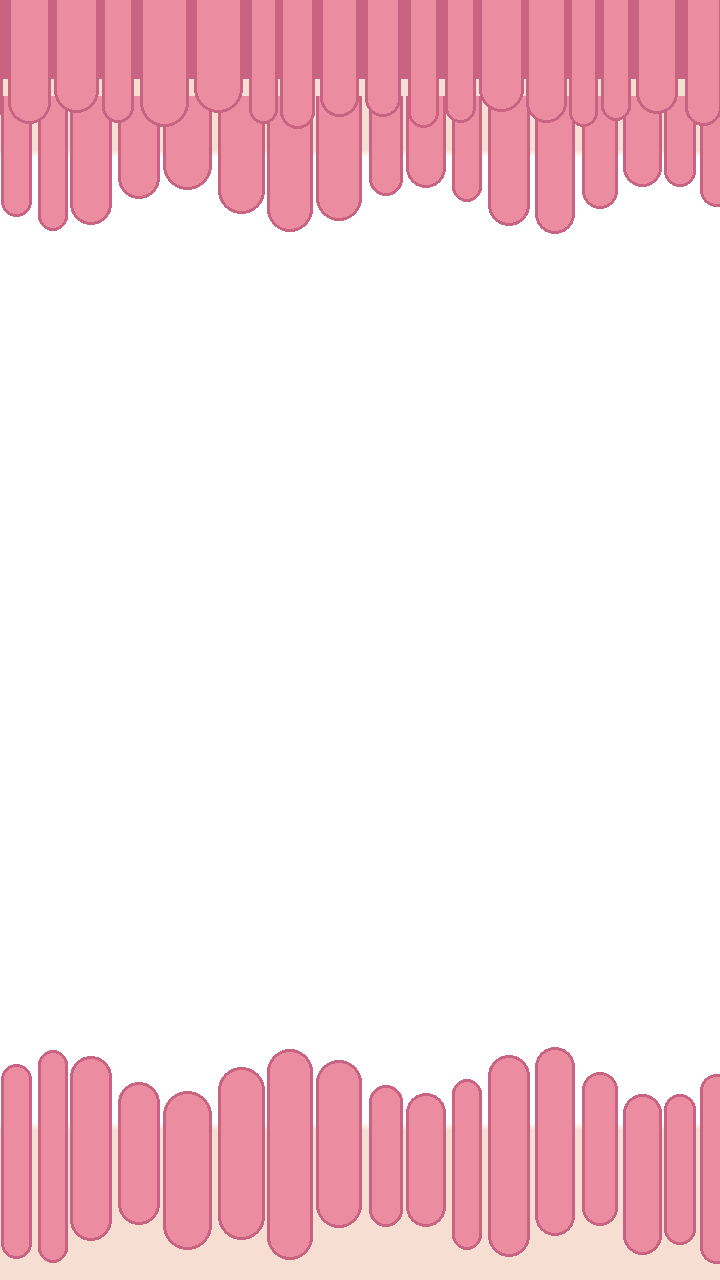
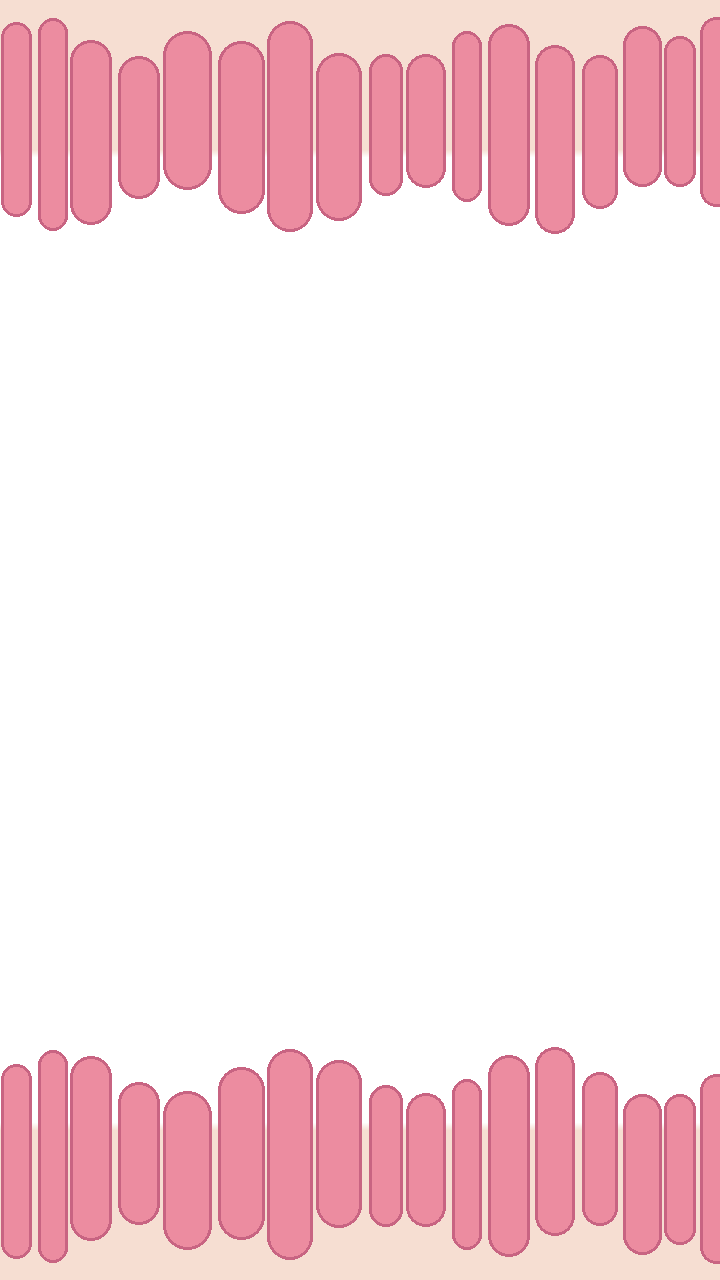
feat(art, step 1/5): ceiling strip in front of the pipes at pipe speed; kill line and gaps mirror the ground
The front villi row at the top was baked into villi.png, so it drew behind
the pipes at the overlay's 0.25 parallax. It is now assets/ceiling.png, a
tileSprite at depth 5 scrolled at pipe speed like ground.png; villi.png keeps
only the cream backdrops and the two back fringes. TUNING.ceilingHeight (128,
the ground's mirror): the poop dies at the strip's edge and gapBounds keeps
gapMargin below it, so nothing lives behind the strip. VERSION 0.5.16 so the
redrawn villi.png is refetched.

Verified: npm test 305/305; npm run smoke green (the driver re-parks its
gravity-free poop before the pad ring checks, where it had drifted above the
new ceiling line).

Changed region(s): [[0.0, 0.0, 1.0, 0.0938]]

diff --git a/src/scenes/Play.js b/src/scenes/Play.js
@@ -175,13 +175,19 @@ export class Play extends Phaser.Scene {
     this.pipes = this.physics.add.group({ allowGravity: false, immovable: true });
     this.items = this.physics.add.group({ allowGravity: false, immovable: true });
     this.beans = this.physics.add.group({ allowGravity: false, immovable: true });
+    // The ceiling and ground strips: in front of the pipes (depth 5) at full scroll speed, so the
+    // front villi rows pass faster than the back fringes in the overlay. The poop dies at their edges.
     this.ground = this.add
       .tileSprite(0, GAME_HEIGHT - T.groundHeight, W, T.groundHeight, 'ground')
       .setOrigin(0, 0)
       .setDepth(5);
-    {
-      const f = this.ground.frame;
-      this.ground.setTileScale(FIELD.minWidth / f.width, T.groundHeight / f.height);
+    this.ceiling = this.add.tileSprite(0, 0, W, T.ceilingHeight, 'ceiling').setOrigin(0, 0).setDepth(5);
+    for (const [strip, height] of [
+      [this.ground, T.groundHeight],
+      [this.ceiling, T.ceilingHeight],
+    ]) {
+      const f = strip.frame;
+      strip.setTileScale(FIELD.minWidth / f.width, height / f.height);
     }
 
     // Ready-screen geometry (title, poop spot, buttons). Taps resolve through
@@ -1127,6 +1133,7 @@ export class Play extends Phaser.Scene {
     this.pipesSpawned += 1;
     const gapCfg = {
       gameHeight: GAME_HEIGHT,
+      ceilingHeight: T.ceilingHeight,
       groundHeight: T.groundHeight,
       gapHeight: this.diff.gapHeight,
       gapMargin: T.gapMargin,
@@ -1783,6 +1790,7 @@ export class Play extends Phaser.Scene {
     if (scrolling) {
       for (const layer of this.bgLayers) layer.sprite.tilePositionX += this.scrollSpeed() * layer.parallax * dt;
       this.ground.tilePositionX += this.scrollSpeed() * dt;
+      this.ceiling.tilePositionX += this.scrollSpeed() * dt;
     }
 
     if (this.state === 'playing') {
@@ -1843,7 +1851,7 @@ export class Play extends Phaser.Scene {
         this.poop.setAngle(angleForVelocity(this.poop.body.velocity.y, T));
         this.refreshPoopLook(); // the falling face past fallLookVy, back to plain / stink on the next flap
       }
-      const top = T.poopRadius;
+      const top = T.ceilingHeight + T.poopRadius; // the strips' edges, like the floor
       const floor = GAME_HEIGHT - T.groundHeight - T.poopRadius;
       if (this.poop.y < top || this.poop.y > floor) {
         if (this.effects.powerActive() || this.graceLeftMs > 0 || this.testInvincible()) {

diff --git a/tests/logic.test.js b/tests/logic.test.js
@@ -3,7 +3,7 @@ import assert from 'node:assert/strict';
 import { createRng, gapBounds, pipeGapY, centredGapY, hasPassed, angleForVelocity, poopFrame } from '../src/logic.js';
 import { GAME_HEIGHT, TUNING as T } from '../src/config.js';
 
-const cfg = { gameHeight: GAME_HEIGHT, groundHeight: T.groundHeight, gapHeight: T.gapHeight, gapMargin: T.gapMargin };
+const cfg = { gameHeight: GAME_HEIGHT, ceilingHeight: T.ceilingHeight, groundHeight: T.groundHeight, gapHeight: T.gapHeight, gapMargin: T.gapMargin };
 
 test('pipeGapY always lands inside gapBounds (10 000 draws)', () => {
   const { minY, maxY } = gapBounds(cfg);
@@ -15,10 +15,13 @@ test('pipeGapY always lands inside gapBounds (10 000 draws)', () => {
   }
 });
 
-test('the gap never overlaps the ground or the ceiling with the shipped tuning', () => {
+test('the gap keeps gapMargin below the ceiling strip and above the ground strip with the shipped tuning', () => {
   const { minY, maxY } = gapBounds(cfg);
-  assert.ok(minY - T.gapHeight / 2 >= 0);
-  assert.ok(maxY + T.gapHeight / 2 <= GAME_HEIGHT - T.groundHeight);
+  assert.equal(minY - T.gapHeight / 2, T.ceilingHeight + T.gapMargin);
+  assert.equal(maxY + T.gapHeight / 2, GAME_HEIGHT - T.groundHeight - T.gapMargin);
+  assert.ok(maxY > minY);
+  const { minY: noCeiling } = gapBounds({ ...cfg, ceilingHeight: undefined });
+  assert.equal(noCeiling, T.gapMargin + T.gapHeight / 2, 'ceilingHeight defaults to 0');
 });
 
 test('same seed gives the same pipe sequence; different seed differs', () => {
@@ -50,7 +53,7 @@ test('angleForVelocity is nose-up when rising and clamps nose-down when falling 
 });
 
 test('centredGapY sits at mid-screen (the fart float height) and stays inside gapBounds', () => {
-  const cfg = { gameHeight: GAME_HEIGHT, groundHeight: T.groundHeight, gapHeight: T.gapHeight, gapMargin: T.gapMargin };
+  const cfg = { gameHeight: GAME_HEIGHT, ceilingHeight: T.ceilingHeight, groundHeight: T.groundHeight, gapHeight: T.gapHeight, gapMargin: T.gapMargin };
   assert.equal(centredGapY(cfg), GAME_HEIGHT / 2);
   const { minY, maxY } = gapBounds(cfg);
   assert.ok(centredGapY(cfg) >= minY && centredGapY(cfg) <= maxY);

diff --git a/tests/levels.test.js b/tests/levels.test.js
@@ -118,7 +118,7 @@ test('lerpColor blends per channel and clamps f', () => {
 
 test('the fixed gap still fits the poop with room, and the fart grace clears a pipe column at level-1 speed', () => {
   assert.ok(T.gapHeight >= T.poopRadius * 2 * 2.5, 'gap is at least 2.5 poop diameters');
-  const b = gapBounds({ gameHeight: GAME_HEIGHT, groundHeight: T.groundHeight, gapHeight: T.gapHeight, gapMargin: T.gapMargin });
+  const b = gapBounds({ gameHeight: GAME_HEIGHT, ceilingHeight: T.ceilingHeight, groundHeight: T.groundHeight, gapHeight: T.gapHeight, gapMargin: T.gapMargin });
   assert.ok(b.maxY > b.minY, 'a gap can be placed');
   assert.ok((T.beans.graceMs * T.pipeSpeed) / 1000 >= T.pipeWidth + T.poopRadius, 'grace clears a pipe column');
 });
@@ -230,6 +230,6 @@ test('levelGap is 10 % wider on level 1, 5 % on level 2, and the base gap from l
     assert.ok(s[i] >= 1, `gapScale[${i}] never narrows below the base gap`);
     if (i > 0) assert.ok(s[i] <= s[i - 1], 'gaps never widen as levels rise');
   }
-  const b = gapBounds({ gameHeight: GAME_HEIGHT, groundHeight: T.groundHeight, gapHeight: levelGap(1, T), gapMargin: T.gapMargin });
+  const b = gapBounds({ gameHeight: GAME_HEIGHT, ceilingHeight: T.ceilingHeight, groundHeight: T.groundHeight, gapHeight: levelGap(1, T), gapMargin: T.gapMargin });
   assert.ok(b.maxY > b.minY, 'the widest gap still has room to move');
 });

diff --git a/src/logic.js b/src/logic.js
@@ -4,7 +4,7 @@
 
 import { isLocale, DEFAULT_LOCALE } from './i18n.js';
 
-export const VERSION = '0.5.15'; // bumped when art under an existing name changes (Boot's ?v= cache-bust)
+export const VERSION = '0.5.16'; // bumped when art under an existing name changes (Boot's ?v= cache-bust)
 
 /** Player-facing stamp on the About overlay: the time of the last push (written by `npm run push`). */
 export const LAST_UPDATED = '6 Nov 2026, 18:26';
@@ -123,9 +123,9 @@ export function createRng(seed = 1) {
   };
 }
 
-/** Vertical bounds the centre of a pipe gap may occupy. */
-export function gapBounds({ gameHeight, groundHeight, gapHeight, gapMargin }) {
-  const minY = gapMargin + gapHeight / 2;
+/** Vertical bounds the centre of a pipe gap may occupy: gapMargin below the ceiling strip and above the ground strip. */
+export function gapBounds({ gameHeight, ceilingHeight = 0, groundHeight, gapHeight, gapMargin }) {
+  const minY = ceilingHeight + gapMargin + gapHeight / 2;
   const maxY = gameHeight - groundHeight - gapMargin - gapHeight / 2;
   if (maxY < minY) throw new Error('gapBounds: playfield too short for this gap');
   return { minY, maxY };

diff --git a/tests/tuning.test.js b/tests/tuning.test.js
@@ -3,6 +3,13 @@ import assert from 'node:assert/strict';
 import { TUNING as T, SHARE, FIELD, GAME_WIDTH, GAME_HEIGHT } from '../src/config.js';
 import { pipeSpacing, levelSpeed } from '../src/logic.js';
 
+test('the ceiling strip mirrors the ground strip, and the play area between them is centred on mid-screen', () => {
+  assert.equal(T.ceilingHeight, T.groundHeight);
+  assert.ok(T.ceilingHeight > 0 && T.ceilingHeight < GAME_HEIGHT / 4, `ceilingHeight ${T.ceilingHeight}`);
+  assert.equal((T.ceilingHeight + GAME_HEIGHT - T.groundHeight) / 2, GAME_HEIGHT / 2, 'the fart float centre is the play centre');
+  assert.ok(T.hudScoreY + 40 <= T.ceilingHeight + T.gapMargin, 'the score sits above where a gap can start');
+});
+
 test('item spawn rates sit in a fair band', () => {
   assert.ok(T.items.chancePerGap >= 0.1 && T.items.chancePerGap <= 0.5, `chancePerGap ${T.items.chancePerGap}`);
   assert.ok(T.items.hazardFromLevel >= 2, 'level 1 stays free of bad bacteria');

diff --git a/src/config.js b/src/config.js
@@ -26,7 +26,8 @@ export const TUNING = {
   pipeSpacingPx: 412, // px between pipe pairs from levels.spacingRefLevel on (1.27 s at level-3 speed); slower levels get more, see pipeSpacing()
   gapHeight: 340, // vertical opening between a pipe pair
   pipeWidth: 128,
-  groundHeight: 128,
+  groundHeight: 128, // px, the ground strip: the poop dies at its edge and gaps keep gapMargin above it
+  ceilingHeight: 128, // px, the ceiling strip (the ground's mirror): the poop dies at its edge and gaps keep gapMargin below it
   gapMargin: 80, // keep the gap this far from the ceiling and the ground
   poopXFrac: 0.25, // 0–1 share of the field width where the player sits (180 px of a 720 field; the same share on a wider desktop field; poopX())
   poopRadius: 48, // px circular hitbox = half the 96 logical-px sprite (the whole drawing, square corners excluded)

diff --git a/src/scenes/Boot.js b/src/scenes/Boot.js
@@ -29,6 +29,7 @@ export class Boot extends Phaser.Scene {
     this.load.image('poop-speech', 'assets/poop-speech.png' + V);
     this.load.image('pipe', 'assets/pipe.png' + V);
     this.load.image('villi', 'assets/villi.png' + V); // transparent overlay above the per-level colour
+    this.load.image('ceiling', 'assets/ceiling.png' + V); // the ceiling strip, the ground's mirror: in front of the pipes at pipe speed
     this.load.image('ground', 'assets/ground.png' + V);
     this.load.audio('fart', 'assets/sfx/fart.mp3' + V);
     this.load.audio('fart-accelerate', 'assets/sfx/fart_accelerate.mp3' + V);

diff --git a/tests/items.test.js b/tests/items.test.js
@@ -47,7 +47,7 @@ test('bandMidY puts a still pickup midway between this gap and the next, inside 
   assert.equal(bandMidY(300, 700), 500);
   assert.equal(bandMidY(700, 300), bandMidY(300, 700), 'symmetric');
   assert.equal(bandMidY(420, 420), 420);
-  const cfg = { gameHeight: 1280, groundHeight: T.groundHeight, gapHeight: 374, gapMargin: T.gapMargin };
+  const cfg = { gameHeight: 1280, ceilingHeight: T.ceilingHeight, groundHeight: T.groundHeight, gapHeight: 374, gapMargin: T.gapMargin };
   const rng = createRng(21);
   const lo = pipeGapY(() => 0, cfg);
   const hi = pipeGapY(() => 0.999999, cfg);

diff --git a/tests/fart.test.js b/tests/fart.test.js
@@ -50,7 +50,7 @@ test('fartFloat tilts nose up while rising and nose down while falling, within w
 });
 
 test('the float wave stays inside the play area with the poop radius to spare', () => {
-  const top = T.poopRadius;
+  const top = T.ceilingHeight + T.poopRadius;
   const floor = GAME_HEIGHT - T.groundHeight - T.poopRadius;
   assert.ok(CENTRE - b.waveAmplitudePx > top + 100 && CENTRE + b.waveAmplitudePx < floor - 100, 'wide margins');
   assert.ok(b.wavePeriodMs >= 600 && b.wavePeriodMs <= 3000, `wavePeriodMs ${b.wavePeriodMs}`);

diff --git a/tools/make_placeholders.py b/tools/make_placeholders.py
@@ -8,7 +8,7 @@ checks that the README table matches the PNG headers).
 
 Run:  python3 tools/make_placeholders.py
 Requires Pillow. Uses Noto Color Emoji for the poop if present, else draws a blob.
-Only pipe / villi / ground: the player, items and the app icons come from
+Only pipe / villi / ceiling / ground: the player, items and the app icons come from
 tools/process_art.py (Michael's drawings in assets/src/), never from here.
 """
 from pathlib import Path
@@ -114,11 +114,11 @@ def backdrop(d, w, y0, y1, toward_lumen):
 
 
 def ceiling_strip(d, w, strip_h=128, cream_h=16):
-    """The ground strip's vertical mirror, baked into the overlay's top edge: a dark band, a
+    """The ground strip's vertical mirror (drawn into ceiling.png by ceiling()): a dark band, a
     cream line along its lower edge ending at BAR_FRAC of the shortest tip (so every tip
     extends past it), and fingers growing up from the TIP_ZONE whose tips undulate shallowly
-    (same seed as the ground so the two rows read as one gut wall). Background only: pipes
-    and the poop draw over it, so the ceiling kill line and the gap margin stay as they are."""
+    (same seed as the ground so the two rows read as one gut wall). The game draws it in front
+    of the pipes at pipe speed, like the ground; the poop dies at its edge (ceilingHeight)."""
     tips = strip_h - TIP_ZONE  # the shortest front tip's reach from the top edge
     bar = round(BAR_FRAC * tips)
     d.rectangle((0, 0, w, bar - cream_h), fill=VILLI_DARK)
@@ -130,10 +130,10 @@ def ceiling_strip(d, w, strip_h=128, cream_h=16):
 def villi(path, w=720, h=1280):
     """Transparent overlay: a cream mucosa backdrop from each screen edge to BAR_FRAC of the
     shortest fringe tip, fading to transparent toward the lumen (BACKDROP_FADE; behind
-    everything: the strips and the fringes draw over it), the
-    villi fringes, and the ceiling strip (the ground's mirror) along the top edge. The level
-    colour shows through from the backdrop's edge to the lumen (the game draws a solid
-    rectangle under the overlay)."""
+    everything: the strips and the fringes draw over it) and the two villi fringes. The front
+    rows are separate strips (ceiling.png / ground.png) that the game draws over the pipes.
+    The level colour shows through from the backdrop's edge to the lumen (the game draws a
+    solid rectangle under the overlay)."""
     img = Image.new("RGBA", (w, h), (0, 0, 0, 0))
     d = ImageDraw.Draw(img)
     # Fringes ~175 px (~14 % each end; a third shorter than the first cut) so the open lumen stays clear.
@@ -149,12 +149,21 @@ def villi(path, w=720, h=1280):
     backdrop(d, w, 0, top_bar, +1)
     backdrop(d, w, bot_bar, h, -1)
     # villi fringes (drawn wider than the image so the horizontal tile edge matches); every finger
-    # is ≥ 131 px so its rounded far end sits behind the ceiling strip / the ground strip, and the
+    # is ≥ 131 px so its rounded far end sits behind the ceiling strip / the ground strip (drawn by
+    # the game in front of this overlay), and the
     # tips undulate ±24 px around the backdrop's edge (BACK_WAVE).
     villi_band(d, -40, w + 40, top_base, fringe, up=True, rng=random.Random(7), min_frac=0.75, wave=BACK_WAVE, tile_w=w)
     villi_band(d, -40, w + 40, bot_base, fringe, up=False, rng=random.Random(7), min_frac=0.75, wave=BACK_WAVE, tile_w=w)
-    # Front row at the top, in front of the fringe, as ground.png is in front of the bottom one.
-    ceiling_strip(d, w)
+    img.save(path)
+
+
+def ceiling(path, w=720, h=128):
+    """The ceiling strip, ground.png's mirror: its own file because the game draws it as a
+    tileSprite in front of the pipes at pipe speed (like the ground), not as part of the slow
+    overlay. See ceiling_strip for the drawing."""
+    img = Image.new("RGBA", (w, h), (0, 0, 0, 0))
+    d = ImageDraw.Draw(img)
+    ceiling_strip(d, w, strip_h=h)
     img.save(path)
 
 
@@ -176,7 +185,8 @@ if __name__ == "__main__":
     # poop.png and the icons are Michael's drawings (tools/process_art.py). Do not overwrite them.
     pipe(OUT / "pipe.png")
     villi(OUT / "villi.png")
+    ceiling(OUT / "ceiling.png")
     ground(OUT / "ground.png")
-    for f in ["pipe.png", "villi.png", "ground.png"]:
+    for f in ["pipe.png", "villi.png", "ceiling.png", "ground.png"]:
         im = Image.open(OUT / f)
         print(f"{f}: {im.width}x{im.height}")

diff --git a/assets/README.md b/assets/README.md
@@ -25,7 +25,8 @@ The player and items are Michael's drawings. Put a new source PNG in `assets/src
 | `mystery.png` | 3072x384 | Mystery box (from level 3; opens into a random reward) | Spritesheet: the 8 frames of the spinning GIF side by side, 384x384 each, all cut on one square so the cube never jitters; played at 70 ms per frame (`mystery.frameMs`). Same hitbox as the items. Bobs between pipe pairs at half fiber's speed. Source: `assets/src/MysteryBox.gif`. |
 | `mystery-icon.png` | 384x384 | Mystery box icon (game-over summary and How to play) | Static three-quarter view; never spawned, so no hitbox. Same crop rules as the items. Source: `assets/src/MysteryBox_Icon.png`. |
 | `pipe.png` | 128x1280 | One intestinal-fold pipe | Cap at the **top**; the game flips it vertically for the bottom pipe. Height must be **at least the playfield height** (1280) so a flipped top pipe always reaches the ceiling when the gap sits low. |
-| `villi.png` | 720x1280 | Villi overlay over the level colour | Exact playfield size, **transparent** except the cream bands and villi fringes top and bottom and the ceiling strip (top 128 px: dark band, cream line, a front row of fingers, mirroring `ground.png`; background only, pipes and the poop draw over it). Scrolls slowly (parallax 0.25); must tile **horizontally** (left edge continues into right edge). See "Background layers" below. |
+| `villi.png` | 720x1280 | Villi overlay over the level colour | Exact playfield size, **transparent** except the cream backdrops and the two back villi fringes (top and bottom). Scrolls slowly (parallax 0.25); must tile **horizontally** (left edge continues into right edge). The front rows are `ceiling.png` / `ground.png`, drawn by the game over it and over the pipes. See "Background layers" below. |
+| `ceiling.png` | 720x128 | Scrolling ceiling strip | `ground.png`'s vertical mirror: the dark band at the top, the cream line ending `BAR_FRAC` of the shortest tip from the top edge, the fingers' undulating tips in the bottom `TIP_ZONE`, transparent below (the overlay's cream backdrop shows through). Must tile horizontally. Drawn at the top of the screen on top of every background layer and the pipes, at pipe speed; the poop dies at its lower edge (`ceilingHeight`) and gaps keep `gapMargin` below it. |
 | `ground.png` | 720x128 | Scrolling floor strip | Must tile horizontally. Drawn at the bottom of the screen on top of every background layer. Transparent from the top down to its cream line (the overlay's cream backdrop shows through; the fingers' undulating tips live in the top `TIP_ZONE`); the cream line ends `BAR_FRAC` of the shortest tip from the bottom edge so every tip extends past it; then the dark band; the fingers run past the bottom edge. |
 | `icon-192.png` | 192x192 | Home-screen icon (Android / manifest) and the tab favicon | From `assets/src/FlappyPoopAppArt.png` on its own tan: the drawing is scaled to the central 80 % (`ICON_SAFE_FRAC`) so a circular or squircle mask never clips the fart cloud. Referenced by `manifest.webmanifest` (`purpose: any maskable`) and `index.html`. |
 | `icon-512.png` | 512x512 | Home-screen icon (large) | Same cut as `icon-192.png`. |
@@ -44,9 +45,9 @@ Audio files live in `assets/sfx/`. Every file there must be named in `CREDITS.md
 
 ## Background layers (art contract)
 
-The background is a **solid colour per level** (`LEVEL_COLORS` in `src/config.js`, cycling, softened by `levels.whiteBlend`, crossfaded between levels at the break) with one or more **transparent PNG overlay layers** on top. Each layer is a `tileSprite` listed in `BACKGROUND.layers` (`key`, `parallax`) and scrolls at its own fraction of the pipe speed (villi 0.25). Pipes, items, the poop and the ground draw above all layers; the ground strip (bottom 128 px) hides that part of every layer.
+The background is a **solid colour per level** (`LEVEL_COLORS` in `src/config.js`, cycling, softened by `levels.whiteBlend`, crossfaded between levels at the break) with one or more **transparent PNG overlay layers** on top. Each layer is a `tileSprite` listed in `BACKGROUND.layers` (`key`, `parallax`) and scrolls at its own fraction of the pipe speed (villi 0.25). Pipes, items, the poop and the two strips draw above all layers; the ceiling strip (top 128 px) and the ground strip (bottom 128 px) are separate tileSprites in front of the pipes at full pipe speed (`ceilingHeight` / `groundHeight`), and each hides that part of every layer. The poop dies at either strip's edge and the pipe gap keeps `gapMargin` inside both.
 
-- `villi.png`: 720×1280, PNG with alpha, exactly the portrait playfield (it is scaled to the screen height, never tiled vertically). On a wider desktop field the same 720 px copy repeats sideways (tile scale `FIELD.minWidth / width`), as does `ground.png`, so a seam at the wrap would show there first. Transparent wherever the level colour should show; a cream mucosa backdrop from each screen edge to `BAR_FRAC` (85 %) of the shortest fringe tip's reach, solid, with its lumen edge feathered to transparent over the last `BACKDROP_FADE` (5 %, about 8 px) of its depth (behind the strips and the fringes, so the level colour shows only from the backdrop's edge to the lumen and no tip lines up with the bar), where the villi are, and in the ceiling strip along the top edge (the ground's mirror, so both ends show a back fringe and a front row; its cream line ends at `BAR_FRAC` of the shortest front tip too; it is background, so the ceiling kill line and the gap margin are unchanged). Every finger's rounded far end is off the image edge (the strips' front rows) or behind a strip (the fringes), so the walls read as villi running off-screen, not teeth; `villi_band(min_frac)` enforces the minimum length. The lumen-side tips undulate along x on a sine with a whole number of periods per 720 px tile (`BACK_WAVE` ±24 px on the fringes, `FRONT_WAVE` ±8 px on the strips, inside their 16 px `TIP_ZONE`), plus a little per-finger jitter. Must tile horizontally: the right edge continues into the left (the placeholder draws 40 px past each side and wraps). A 2× version (1440×2560) is fine; keep each side ≤ 4096 px (phone WebGL limit); the scene scales by `GAME_WIDTH / frame.width`. Keep the fringes clear of the middle ~50 % of the height where the gaps sit (today each end's fringe reaches about 235 px in from the edge, with its far ends behind the strips).
+- `villi.png`: 720×1280, PNG with alpha, exactly the portrait playfield (it is scaled to the screen height, never tiled vertically). On a wider desktop field the same 720 px copy repeats sideways (tile scale `FIELD.minWidth / width`), as does `ground.png`, so a seam at the wrap would show there first. Transparent wherever the level colour should show; a cream mucosa backdrop from each screen edge to `BAR_FRAC` (85 %) of the shortest fringe tip's reach, solid, with its lumen edge feathered to transparent over the last `BACKDROP_FADE` (5 %, about 8 px) of its depth (behind the strips and the fringes, so the level colour shows only from the backdrop's edge to the lumen and no tip lines up with the bar), and where the villi are. Both ends show a back fringe (in this overlay) behind a front row (`ceiling.png` / `ground.png`, mirrors of each other with the same seed, their cream lines ending at `BAR_FRAC` of the shortest front tip too). Every finger's rounded far end is off the image edge (the strips' front rows) or behind a strip (the fringes), so the walls read as villi running off-screen, not teeth; `villi_band(min_frac)` enforces the minimum length. The lumen-side tips undulate along x on a sine with a whole number of periods per 720 px tile (`BACK_WAVE` ±24 px on the fringes, `FRONT_WAVE` ±8 px on the strips, inside their 16 px `TIP_ZONE`), plus a little per-finger jitter. Must tile horizontally: the right edge continues into the left (the placeholder draws 40 px past each side and wraps). A 2× version (1440×2560) is fine; keep each side ≤ 4096 px (phone WebGL limit); the scene scales by `GAME_WIDTH / frame.width`. Keep the fringes clear of the middle ~50 % of the height where the gaps sit (today each end's fringe reaches about 235 px in from the edge, with its far ends behind the strips).
 - The same villi show over every level colour (Set2: tan, teal, periwinkle, lime, yellow, light blue). Keep villi away from those hues; `tests/levels.test.js` rejects a level colour that comes within reach of the villi pink or the cream bands, so a redrawn villi colour means re-checking that test's constants.
 - Adding a layer: a PNG with the same rules, a row in `BACKGROUND.layers`, a `load.image` in `src/scenes/Boot.js`, and a row in the table above. Nothing in `Play.js` changes.
 - The finish line is a generated texture (`src/ui/finish.js`). A drawn one later: `finish.png`, 64×1280, alpha, scrolls with the pipes.
